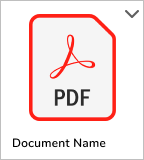
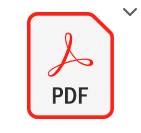
change in documents

Changed region(s): [[0.0851, 0.0602, 0.8227, 0.9323], [0.0, 0.0, 1.0, 1.0]]

diff --git a/src/views/AdminDashboard/AdminDocument.js b/src/views/AdminDashboard/AdminDocument.js
@@ -49,7 +49,9 @@ const AdminDocumentsList = ({
   const filterOrganization = organizations?.find(
     (item) => item._id === selectedOrg
   );
-
+  function checkURL(url) {
+    return url.match(/\.(jpeg|jpg|gif|png)$/) != null;
+  }
   const download = (data) => {
     setTimeout(() => {
       const response = {
@@ -154,7 +156,43 @@ const AdminDocumentsList = ({
             </Col>
           </Row>
           <Row className="pdf-image">
-            {filterOrganization
+            {selectedOrg === ""
+              ? user?.documents.map((docs) => (
+                  <Col
+                    span={3}
+                    style={{
+                      marginRight: "2rem",
+                      marginTop: "2rem",
+                    }}
+                  >
+                    {/* <Link
+                      to="#"
+                      target="_blank"
+                      onClick={() => download(docs.url)}
+                    > */}
+                    {checkURL(docs.url) ? (
+                      <>
+                        <img
+                          src={docs.url}
+                          onClick={() => download(docs.url)}
+                        />
+                        <p style={{ width: 50, paddingTop: 10 }}>
+                          {docs.name.split(".")[0]}
+                        </p>
+                      </>
+                    ) : (
+                      <>
+                        <img src={PDF} onClick={() => download(docs.url)} />
+                        {console.log(docs.name)}
+                        <p style={{ width: 50, paddingTop: 10 }}>
+                          {docs.name.split(".")[0]}
+                        </p>
+                      </>
+                    )}
+                    {/* </Link> */}
+                  </Col>
+                ))
+              : filterOrganization
               ? filterOrganization.documents.length > 0
                 ? filterOrganization.documents.map((docs) => (
                     <Col span={3}>
@@ -163,7 +201,25 @@ const AdminDocumentsList = ({
                         target="_blank"
                         // onClick={() => download(docs.url)}
                       >
-                        <img src={PDF} onClick={() => download(docs.url)} />
+                        {checkURL(docs.url) ? (
+                          <>
+                            <img
+                              src={docs.url}
+                              onClick={() => download(docs.url)}
+                            />
+                            <p style={{ width: 50, paddingTop: 10 }}>
+                              {docs.name.split(".")[0]}
+                            </p>
+                          </>
+                        ) : (
+                          <>
+                            <img src={PDF} onClick={() => download(docs.url)} />
+                            {console.log(docs.name)}
+                            <p style={{ width: 50, paddingTop: 10 }}>
+                              {docs.name.split(".")[0]}
+                            </p>
+                          </>
+                        )}
                       </Link>
                     </Col>
                   ))
@@ -176,7 +232,25 @@ const AdminDocumentsList = ({
                       target="_blank"
                       // onClick={() => download(docs.url)}
                     >
-                      <img src={PDF} onClick={() => download(docs.url)} />
+                      {checkURL(docs.url) ? (
+                        <>
+                          <img
+                            src={docs.url}
+                            onClick={() => download(docs.url)}
+                          />
+                          <p style={{ width: 50, paddingTop: 10 }}>
+                            {docs.name.split(".")[0]}
+                          </p>
+                        </>
+                      ) : (
+                        <>
+                          <img src={PDF} onClick={() => download(docs.url)} />
+                          {console.log(docs.name)}
+                          <p style={{ width: 50, paddingTop: 10 }}>
+                            {docs.name.split(".")[0]}
+                          </p>
+                        </>
+                      )}
                     </Link>
                   </Col>
                 ))

diff --git a/src/views/Dashboard/Documents/DocumentsList.jsx b/src/views/Dashboard/Documents/DocumentsList.jsx
@@ -175,9 +175,23 @@ const DocumentsList = ({
                       onClick={() => download(docs.url)}
                     > */}
                     {checkURL(docs.url) ? (
-                      <img src={docs.url} onClick={() => download(docs.url)} />
+                      <>
+                        <img
+                          src={docs.url}
+                          onClick={() => download(docs.url)}
+                        />
+                        <p style={{ width: 50, paddingTop: 10 }}>
+                          {docs.name.split(".")[0]}
+                        </p>
+                      </>
                     ) : (
-                      <img src={PDF} onClick={() => download(docs.url)} />
+                      <>
+                        <img src={PDF} onClick={() => download(docs.url)} />
+                        {console.log(docs.name)}
+                        <p style={{ width: 50, paddingTop: 10 }}>
+                          {docs.name.split(".")[0]}
+                        </p>
+                      </>
                     )}
                     {/* </Link> */}
                   </Col>
@@ -198,13 +212,25 @@ const DocumentsList = ({
                         onClick={() => download(docs.url)}
                       > */}
                       {checkURL(docs.url) ? (
-                        <img
-                          src={docs.url}
-                          onClick={() => download(docs.url)}
-                        />
+                        <>
+                          <img
+                            src={docs.url}
+                            onClick={() => download(docs.url)}
+                          />
+                          <p style={{ width: 50, paddingTop: 10 }}>
+                            {docs.name.split(".")[0]}
+                          </p>
+                        </>
                       ) : (
-                        <img src={PDF} onClick={() => download(docs.url)} />
+                        <>
+                          <img src={PDF} onClick={() => download(docs.url)} />
+                          <p style={{ width: 50, paddingTop: 10 }}>
+                            {docs.name.split(".")[0]}
+                          </p>
+                        </>
                       )}
+                      {docs.name}
+
                       {/* </Link> */}
                     </Col>
                   ))
@@ -218,12 +244,26 @@ const DocumentsList = ({
                       onClick={() => download(docs.url)}
                     > */}
                     {checkURL(docs.url) ? (
-                      <img src={docs.url} onClick={() => download(docs.url)} />
+                      <>
+                        <img
+                          src={docs.url}
+                          onClick={() => download(docs.url)}
+                        />
+                        <p style={{ width: 50, paddingTop: 10 }}>
+                          {docs.name.split(".")[0]}
+                        </p>
+                      </>
                     ) : (
-                      <img src={PDF} onClick={() => download(docs.url)} />
+                      <>
+                        <img src={PDF} onClick={() => download(docs.url)} />
+                        <p style={{ width: 50, paddingTop: 10 }}>
+                          {docs.name.split(".")[0]}
+                        </p>
+                      </>
                     )}
 
                     {/* </Link> */}
+                    {docs.name}
                   </Col>
                 ))
               : "No Documents Found"}
@@ -234,8 +274,7 @@ const DocumentsList = ({
       )}
       <div
         style={{
-          position: "absolute",
-          bottom: 50,
+          marginTop: 20,
         }}
       >
         <Button
